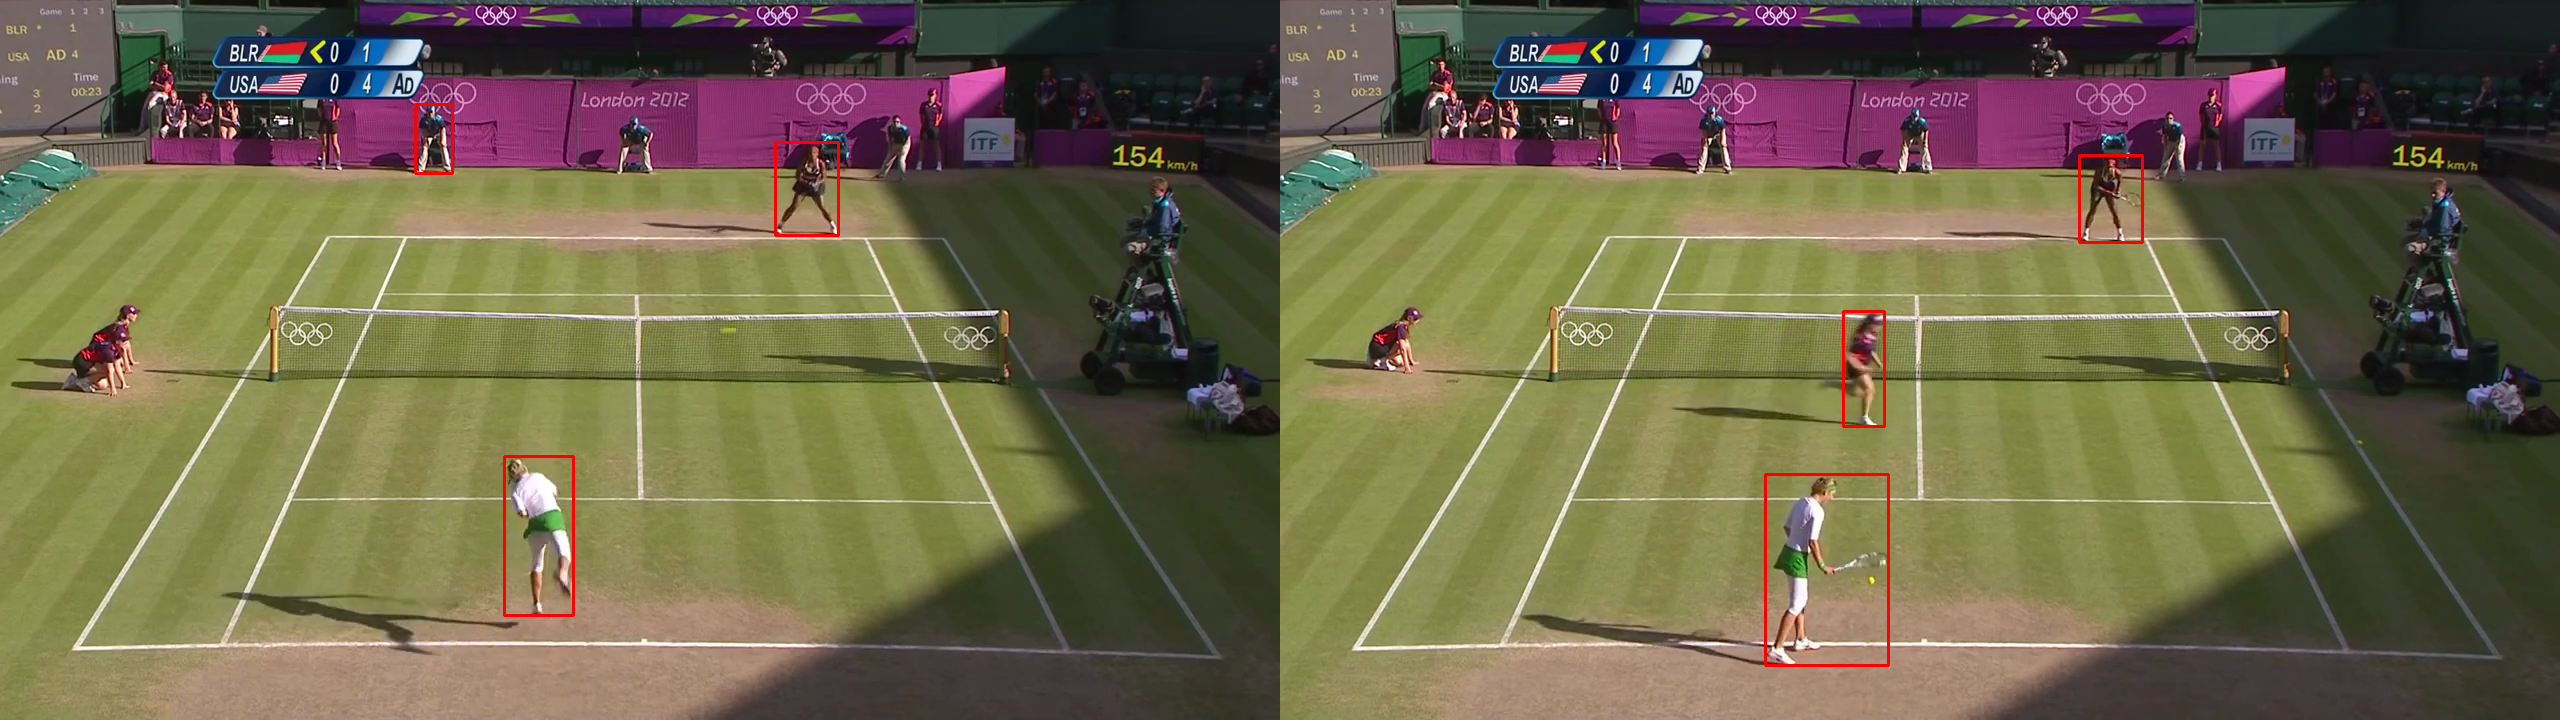
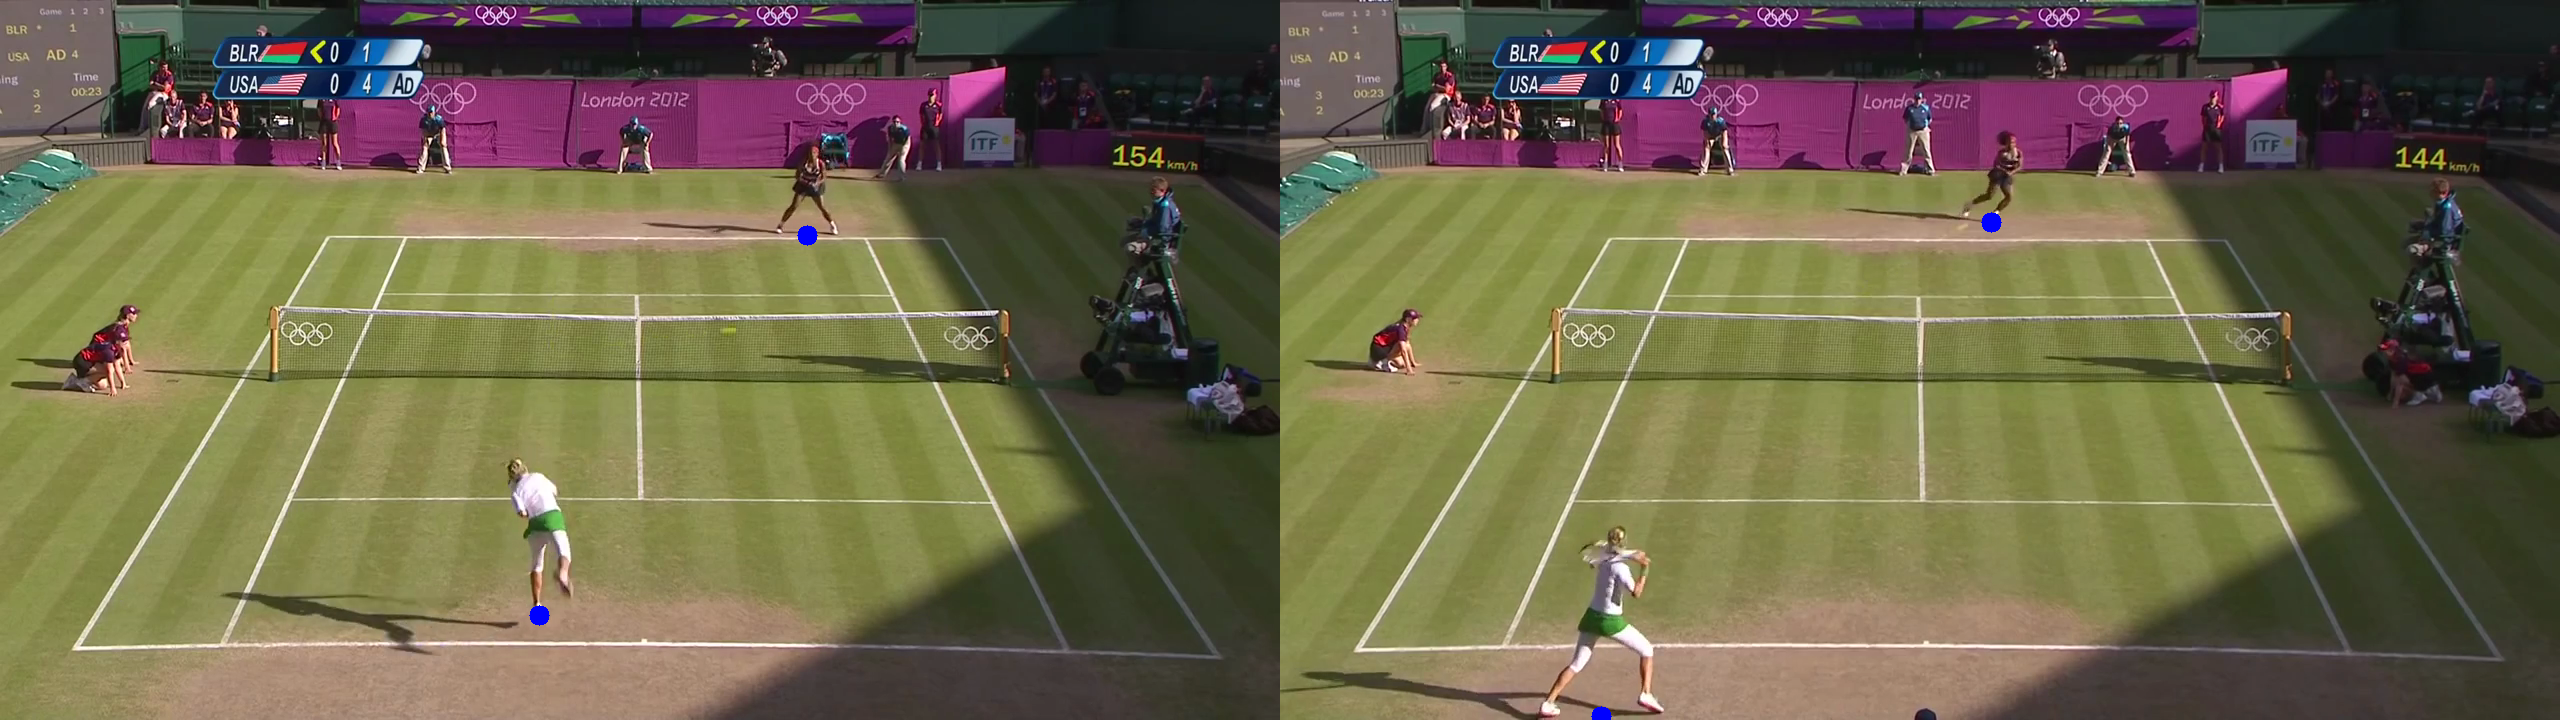
tennis tracking visualization

diff --git a/tennis_tracker/article_visualizations/plot_random_frame.py b/tennis_tracker/article_visualizations/plot_random_frame.py
@@ -6,18 +6,38 @@ from tennis_tracker.player_location.extract_keypoints import read_json_file
 from tennis_tracker.visualize.visualize_ball_tracking import process_frame
 
 
-def plot_boxes(frame: np.array, measurements: list[np.array]):
+def plot_boxes(frame: np.array, measurements: list[np.array], plot_ankles: bool = False):
     for measurement in measurements:
         top_left_x = int(measurement[0] - measurement[2] / 2)
         top_left_y = int(measurement[1] - measurement[3] / 2)
         bottom_right_x = int(measurement[0] + measurement[2] / 2)
         bottom_right_y = int(measurement[1] + measurement[3] / 2)
-        cv2.rectangle(
+        if plot_ankles:
+            cv2.circle(
+                frame,
+                (int(measurement[0]), bottom_right_y),
+                10,
+                (255, 0, 0),
+                -1,
+            )
+        else:
+            cv2.rectangle(
+                frame,
+                (top_left_x, top_left_y),
+                (bottom_right_x, bottom_right_y),
+                (0, 0, 255),
+                2,
+            )
+    return frame
+
+def plot_keypoints(frame: np.array, measurements: list[np.array]):
+    for measurement in measurements:
+        cv2.circle(
             frame,
-            (top_left_x, top_left_y),
-            (bottom_right_x, bottom_right_y),
+            (int(measurement[-2]), int(measurement[-1])), # Convert coordinates to integers
+            5,
             (0, 0, 255),
-            2,
+            -1,
         )
     return frame
 
@@ -26,6 +46,8 @@ if __name__ == "__main__":
     JSON_PATH = "../labels/labels_with_balls.json"
 
     data = read_json_file(JSON_PATH)
+    court_frame = cv2.imread("../player_location/padded_court.jpg")
+
 
     video_frames = []
     keys = list(data.keys())
@@ -37,17 +59,26 @@ if __name__ == "__main__":
 
     i = 10
     _, measurements = process_frame(data[video_frames[i]], video_frames[i])
+    measurements = measurements[:2]
     frame = cv2.imread(video_frames[i])
-    frame = plot_boxes(frame, measurements)
+    frame = plot_boxes(frame, measurements, plot_ankles=True)
 
-    i = 80
+    i = 680
     _, measurements = process_frame(data[video_frames[i]], video_frames[i])
+    measurements = measurements[:2]
     frame2 = cv2.imread(video_frames[i])
-    frame2 = plot_boxes(frame2, measurements)
+    frame2 = plot_boxes(frame2, measurements, plot_ankles=True)
+
+    frame3 = plot_keypoints(court_frame, measurements)
+
+    frame3 = cv2.resize(frame3, (frame3.shape[1], frame2.shape[0]))
+    combined_frame2 = np.concatenate((frame2, frame3), axis=1)
 
     # combine the two frames
     combined_frame = np.concatenate((frame, frame2), axis=1)
 
     cv2.imwrite("frame.png", frame)
     cv2.imwrite("frame2.png", frame2)
+    cv2.imwrite("frame3.png", frame3)
     cv2.imwrite("combined_frame.png", combined_frame)
+    cv2.imwrite("combined_frame2.png", combined_frame2)

diff --git a/tennis_tracker/visualize/visualize_player_tracking.py b/tennis_tracker/visualize/visualize_player_tracking.py
@@ -3,7 +3,9 @@ import argparse
 import cv2
 import numpy as np
 from object_tracking.kalman_filter.schema_n_adaptive_q import (
-    KalmanNDTrackerAdaptiveQ, KalmanStateVectorNDAdaptiveQ)
+    KalmanNDTrackerAdaptiveQ,
+    KalmanStateVectorNDAdaptiveQ,
+)
 from tqdm import tqdm
 
 from tennis_tracker.player_location.extract_keypoints import read_json_file
